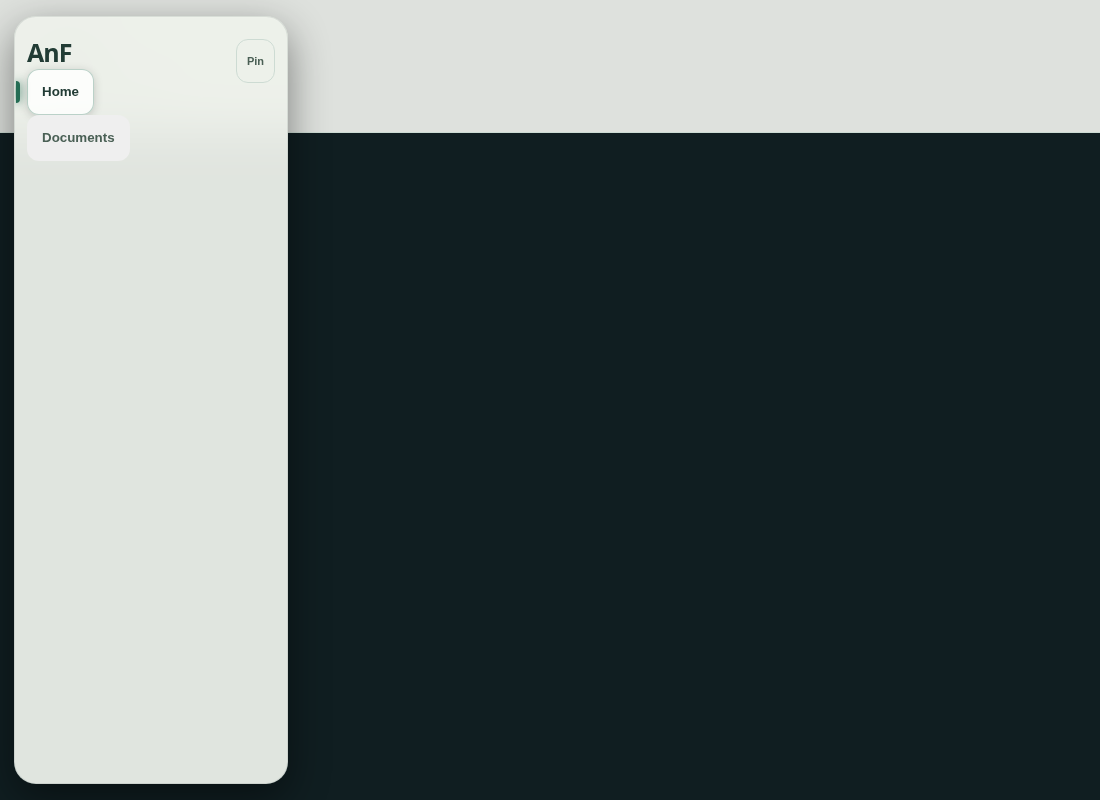
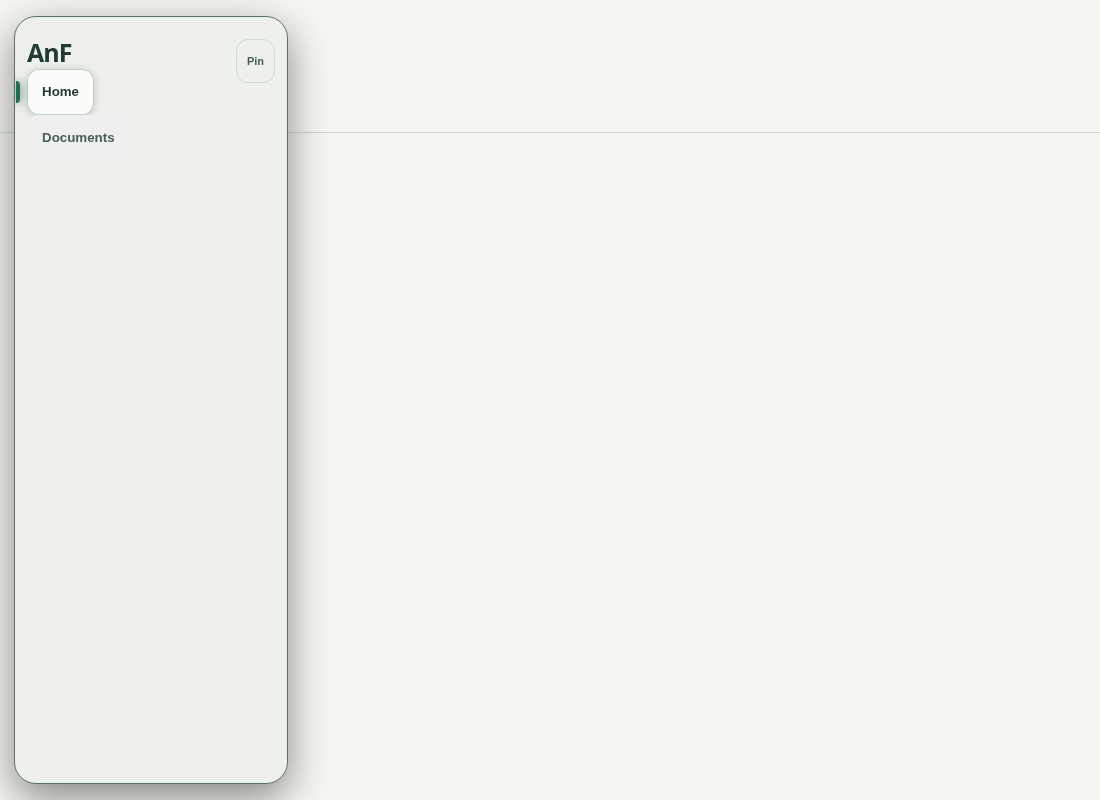
Raise reader and glass-light contrast above 4.5:1
Shell borders, focus, meter, and quote marks were about 3.1:1, the OCR
button kept the dark workspace surface on light and amber, and the light
glass rail blurred the dark page through a nearly invisible border.
Tokens now clear 4.5:1, the OCR control uses reader colors, and viewport
resizes no longer animate layout.

Claude-Session: https://cursor.com/agents/bc-d90c7748-2765-4055-a73d-bbf420a21b2e

diff --git a/windows/src/workspace/reader.css b/windows/src/workspace/reader.css
@@ -1,9 +1,11 @@
-.reader-overlay{--reader-bg:#18212b;--reader-ink:#e8eef3;--reader-line:#606d7a;--reader-focus:#4aa793;--reader-meter:#79e4b4;--reader-quote:#b4a144;position:fixed;inset:0;z-index:300;background:var(--reader-bg);color:var(--reader-ink);display:flex;flex-direction:column;padding:18px;overflow:hidden;font:15px/1.5 system-ui,sans-serif}.reader-overlay[hidden]{display:none!important}.reader-overlay[data-theme=black]{--reader-bg:#000;--reader-ink:#eee;--reader-line:#5c5c5c}.reader-overlay[data-theme=sepia]{--reader-bg:#f3e7d1;--reader-ink:#433827;--reader-line:#8d816a;--reader-focus:#409180;--reader-meter:#4c9071;--reader-quote:#948438}.reader-overlay[data-theme=light]{--reader-bg:#fafafa;--reader-ink:#222;--reader-line:#909090;--reader-focus:#469d8a;--reader-meter:#539d7c;--reader-quote:#a08f3d}.reader-header,.reader-controls,.reader-navigation{display:flex;gap:8px;align-items:center;flex-wrap:wrap;padding:4px 0;border:0}.reader-header h2{flex:1;font-size:20px;margin:0;overflow-wrap:anywhere}.reader-overlay button,.reader-overlay select,.reader-overlay textarea{background:var(--reader-bg);color:var(--reader-ink);border:1px solid var(--reader-line);border-radius:9px;padding:8px;font:inherit;min-height:40px;width:auto}.reader-overlay select{max-width:220px}.reader-overlay button:focus-visible,.reader-overlay select:focus-visible,.reader-page:focus-visible{outline:2px solid var(--reader-focus);outline-offset:2px}.reader-progress,.reader-notice,.reader-footnote{font-size:12px;margin:6px 0}.reader-body{display:grid;grid-template-columns:minmax(0,1fr) 280px;gap:24px;overflow:auto;min-height:0;flex:1;padding:8px 0}.reader-page{white-space:pre-wrap;overflow-wrap:anywhere;font:20px/1.8 Georgia,serif;margin:0 auto;max-height:none;width:100%;overflow:visible;color:var(--reader-ink)}.reader-aside{font:14px/1.5 system-ui,sans-serif;border-left:1px solid var(--reader-line);padding-left:16px}.reader-aside h3{margin-top:0}.reader-aside textarea{width:100%;min-height:85px}.reader-aside button{margin:5px 5px 5px 0;font-size:12px}.reader-notes article{border-top:1px solid var(--reader-line);padding:10px 0;overflow-wrap:anywhere}.reader-notes blockquote{margin:0;padding:0 8px;border-left:3px solid var(--reader-quote);font-style:italic}.reader-page mark[data-color=gold]{background:#f0ce69;color:#252018}.reader-page mark[data-color=green]{background:#91d6b0;color:#15291d}.reader-page mark[data-color=pink]{background:#eba7c1;color:#301321}@media(max-width:700px){.reader-overlay{padding:12px}.reader-body{display:block}.reader-aside{border:0;border-top:1px solid var(--reader-line);padding:20px 0;margin-top:25px}.reader-header h2{font-size:17px}.reader-controls select{font-size:12px;padding:5px;max-width:140px}.reader-navigation select{max-width:160px}.reader-page{padding:0 8px}.reader-footnote{font-size:10px}.reader-overlay button{font-size:12px}}
+.reader-overlay{--reader-bg:#18212b;--reader-ink:#e8eef3;--reader-line:#8494a2;--reader-focus:#4aa793;--reader-meter:#79e4b4;--reader-quote:#b4a144;--reader-control-bg:var(--reader-bg);--reader-control-ink:var(--reader-ink);--reader-control-line:var(--reader-line);--reader-control-mark:var(--reader-meter);color-scheme:dark;position:fixed;inset:0;z-index:300;background:var(--reader-bg);color:var(--reader-ink);display:flex;flex-direction:column;padding:18px;overflow:hidden;font:15px/1.5 system-ui,sans-serif}.reader-overlay[hidden]{display:none!important}.reader-overlay[data-theme=black]{--reader-bg:#000;--reader-ink:#eee;--reader-line:#767676}.reader-overlay[data-theme=sepia]{--reader-bg:#f3e7d1;--reader-ink:#433827;--reader-line:#746656;--reader-focus:#2f6d58;--reader-meter:#2a6848;--reader-quote:#6e5a28}.reader-overlay[data-theme=light]{--reader-bg:#fafafa;--reader-ink:#222;--reader-line:#6f6f6f;--reader-focus:#2f6f5c;--reader-meter:#2a7358;--reader-quote:#6f5b1c}.reader-overlay[data-theme=light],.reader-overlay[data-theme=sepia]{color-scheme:light}.reader-header,.reader-controls,.reader-navigation{display:flex;gap:8px;align-items:center;flex-wrap:wrap;padding:4px 0;border:0}.reader-header h2{flex:1;font-size:20px;margin:0;overflow-wrap:anywhere}.reader-overlay button,.reader-overlay select,.reader-overlay textarea{background:var(--reader-bg);color:var(--reader-ink);border:1px solid var(--reader-line);border-radius:9px;padding:8px;font:inherit;min-height:40px;width:auto}.reader-overlay select{max-width:220px}.reader-overlay button:focus-visible,.reader-overlay select:focus-visible,.reader-page:focus-visible{outline:2px solid var(--reader-focus);outline-offset:2px}.reader-progress,.reader-notice,.reader-footnote{font-size:12px;margin:6px 0}.reader-body{display:grid;grid-template-columns:minmax(0,1fr) 280px;gap:24px;overflow:auto;min-height:0;flex:1;padding:8px 0}.reader-page{white-space:pre-wrap;overflow-wrap:anywhere;font:20px/1.8 Georgia,serif;margin:0 auto;max-height:none;width:100%;overflow:visible;color:var(--reader-ink)}.reader-aside{font:14px/1.5 system-ui,sans-serif;border-left:1px solid var(--reader-line);padding-left:16px}.reader-aside h3{margin-top:0}.reader-aside textarea{width:100%;min-height:85px}.reader-aside button{margin:5px 5px 5px 0;font-size:12px}.reader-notes article{border-top:1px solid var(--reader-line);padding:10px 0;overflow-wrap:anywhere}.reader-notes blockquote{margin:0;padding:0 8px;border-left:3px solid var(--reader-quote);font-style:italic}.reader-page mark[data-color=gold]{background:#f0ce69;color:#252018}.reader-page mark[data-color=green]{background:#91d6b0;color:#15291d}.reader-page mark[data-color=pink]{background:#eba7c1;color:#301321}@media(max-width:700px){.reader-overlay{padding:12px}.reader-body{display:block}.reader-aside{border:0;border-top:1px solid var(--reader-line);padding:20px 0;margin-top:25px}.reader-header h2{font-size:17px}.reader-controls select{font-size:12px;padding:5px;max-width:140px}.reader-navigation select{max-width:160px}.reader-page{padding:0 8px}.reader-footnote{font-size:10px}.reader-overlay button{font-size:12px}.reader-header,.reader-controls,.reader-navigation{flex-wrap:nowrap;overflow-x:auto}}
 
 .reader-page{text-wrap:pretty;font-feature-settings:"kern" 1,"liga" 1}
-.reader-header h2{letter-spacing:-.03em}
+.reader-header h2{letter-spacing:-.03em;min-width:0;white-space:nowrap;overflow:hidden;text-overflow:ellipsis}
 
 .reader-meter{height:3px;border-radius:99px;background:var(--reader-line);overflow:hidden;margin:2px 0 8px}
+.reader-body{scrollbar-gutter:stable}
+.reader-header,.reader-controls,.reader-nav-slot{min-height:48px}
 .reader-meter>span{display:block;height:100%;width:0;background:var(--reader-meter);border-radius:99px}
 
 /* The section bar hides in place. Its slot keeps its height, so the reading column does not move. */
@@ -14,11 +16,12 @@
 
 @property --reader-bg{syntax:"<color>";inherits:true;initial-value:#18212b}
 @property --reader-ink{syntax:"<color>";inherits:true;initial-value:#e8eef3}
-@property --reader-line{syntax:"<color>";inherits:true;initial-value:#606d7a}
+@property --reader-line{syntax:"<color>";inherits:true;initial-value:#8494a2}
 @property --reader-focus{syntax:"<color>";inherits:true;initial-value:#4aa793}
 @property --reader-meter{syntax:"<color>";inherits:true;initial-value:#79e4b4}
 @property --reader-quote{syntax:"<color>";inherits:true;initial-value:#b4a144}
 .reader-overlay{--reader-theme-duration:.28s;--reader-theme-ease:cubic-bezier(.16,1,.3,1);transition:--reader-bg var(--reader-theme-duration) var(--reader-theme-ease),--reader-ink var(--reader-theme-duration) var(--reader-theme-ease),--reader-line var(--reader-theme-duration) var(--reader-theme-ease),--reader-focus var(--reader-theme-duration) var(--reader-theme-ease),--reader-meter var(--reader-theme-duration) var(--reader-theme-ease),--reader-quote var(--reader-theme-duration) var(--reader-theme-ease)}
 .reader-overlay :is(h1,h2,h3){color:var(--reader-ink)}
 .reader-overlay :is(input,textarea)::placeholder{color:color-mix(in srgb,var(--reader-ink) 75%,var(--reader-bg));opacity:1}
-.reader-overlay[data-theme=amber]{--reader-bg:#100a03;--reader-ink:#d5a875;--reader-line:#725b41}
+.reader-overlay :is(button,select,textarea){transition:background-color var(--reader-theme-duration) var(--reader-theme-ease),color var(--reader-theme-duration) var(--reader-theme-ease),border-color var(--reader-theme-duration) var(--reader-theme-ease),outline-color var(--reader-theme-duration) var(--reader-theme-ease)}
+.reader-overlay[data-theme=amber]{--reader-bg:#100a03;--reader-ink:#d5a875;--reader-line:#9a7854}

diff --git a/windows/tests/reader-theme.test.ts b/windows/tests/reader-theme.test.ts
@@ -7,6 +7,7 @@ const studioCss = readFileSync(new URL('../src/workspace/studio.css', import.met
 const readerTs = readFileSync(new URL('../src/workspace/reader.ts', import.meta.url), 'utf8');
 const railCss = readFileSync(new URL('../src/workspace/nav-rail.css', import.meta.url), 'utf8');
 const designCss = readFileSync(new URL('../src/workspace/anf-design.css', import.meta.url), 'utf8');
+const ocrTs = readFileSync(new URL('../src/workspace/ocr-client.ts', import.meta.url), 'utf8');
 
 const THEMES = ['dark', 'black', 'sepia', 'light', 'amber'] as const;
 const LAYOUT_PROPS = ['width', 'height', 'padding', 'margin', 'font-size', 'line-height', 'border-width', 'top', 'left', 'gap', 'grid-template'];
@@ -48,19 +49,19 @@ function themeProp(name: string, theme: (typeof THEMES)[number]) {
   return value!;
 }
 
-test('reader theme ink stays at least 4.5:1 and shell borders at least 3:1', () => {
+test('reader theme ink and shell chrome stay at least 4.5:1', () => {
   for (const theme of THEMES) {
     const bg = themeProp('--reader-bg', theme);
     const ink = themeProp('--reader-ink', theme);
     const line = themeProp('--reader-line', theme);
     assert.ok(contrast(bg, ink) >= 4.5, `${theme} ink ${ink} on ${bg} is ${contrast(bg, ink).toFixed(2)}`);
-    assert.ok(contrast(bg, line) >= 3, `${theme} border ${line} on ${bg} is ${contrast(bg, line).toFixed(2)}`);
+    assert.ok(contrast(bg, line) >= 4.5, `${theme} border ${line} on ${bg} is ${contrast(bg, line).toFixed(2)}`);
     const focus = themeProp('--reader-focus', theme);
     const meter = themeProp('--reader-meter', theme);
     const quote = themeProp('--reader-quote', theme);
-    assert.ok(contrast(bg, focus) >= 3, `${theme} focus ${focus} on ${bg} is ${contrast(bg, focus).toFixed(2)}`);
-    assert.ok(contrast(bg, meter) >= 3, `${theme} meter ${meter} on ${bg} is ${contrast(bg, meter).toFixed(2)}`);
-    assert.ok(contrast(bg, quote) >= 3, `${theme} quote ${quote} on ${bg} is ${contrast(bg, quote).toFixed(2)}`);
+    assert.ok(contrast(bg, focus) >= 4.5, `${theme} focus ${focus} on ${bg} is ${contrast(bg, focus).toFixed(2)}`);
+    assert.ok(contrast(bg, meter) >= 4.5, `${theme} meter ${meter} on ${bg} is ${contrast(bg, meter).toFixed(2)}`);
+    assert.ok(contrast(bg, quote) >= 4.5, `${theme} quote ${quote} on ${bg} is ${contrast(bg, quote).toFixed(2)}`);
   }
 });
 
@@ -105,4 +106,50 @@ test('glass shells ease border and overlay together without layout properties', 
   assert.match(transition!, /background-color/);
   assert.match(transition!, /border-color/);
   for (const prop of LAYOUT_PROPS) assert.equal(transition!.includes(prop), false, prop);
+});
+
+test('reader controls ease color only, and a narrow viewport does not restack the chrome', () => {
+  const controls = readerCss.match(/\.reader-overlay :is\(button,select,textarea\)\{([^}]*)\}/);
+  assert.ok(controls, 'reader control transition');
+  const transition = controls![1].match(/transition\s*:([^;]+)/)?.[1] ?? '';
+  assert.match(transition, /background-color/);
+  assert.match(transition, /border-color/);
+  assert.match(transition, /color/);
+  for (const prop of LAYOUT_PROPS) assert.equal(transition.includes(prop), false, prop);
+  assert.match(readerCss, /@media\(max-width:700px\)\{[\s\S]*flex-wrap\s*:\s*nowrap/);
+  assert.match(readerCss, /scrollbar-gutter\s*:\s*stable/);
+  assert.match(readerCss, /\.reader-header h2\{[^}]*text-overflow\s*:\s*ellipsis/);
+  assert.match(readerCss, /\.reader-overlay\{[^}]*color-scheme\s*:\s*dark/);
+  assert.match(readerCss, /\.reader-overlay\[data-theme=light\],\.reader-overlay\[data-theme=sepia\]\{[^}]*color-scheme\s*:\s*light/);
+});
+
+test('the OCR control inside the reader uses reader tokens, not the workspace surface', () => {
+  assert.match(readerCss, /--reader-control-bg\s*:\s*var\(--reader-bg\)/);
+  assert.match(readerCss, /--reader-control-ink\s*:\s*var\(--reader-ink\)/);
+  assert.match(readerCss, /--reader-control-line\s*:\s*var\(--reader-line\)/);
+  assert.match(readerCss, /--reader-control-mark\s*:\s*var\(--reader-meter\)/);
+  assert.match(ocrTs, /var\(--reader-control-bg,\s*var\(--surface/);
+  assert.match(ocrTs, /var\(--reader-control-ink,\s*var\(--ink/);
+  assert.match(ocrTs, /var\(--reader-control-line,\s*var\(--line/);
+  assert.doesNotMatch(ocrTs, /btn\.style\.background = 'var\(--surface/);
+  assert.match(ocrTs, /var\(--reader-control-mark,\s*var\(--accent/);
+});
+
+test('light glass drops the blur halo and keeps a readable border on an opaque rail', () => {
+  const side = propIn(designCss, '#workspace-root[data-theme=light]', '--side');
+  assert.ok(side, 'light --side');
+  for (const selector of ['#workspace-root[data-theme=light]', '#workspace-root[data-theme=system]']) {
+    const rule = railCss.match(new RegExp(`${selector.replace(/[.*+?^${}()|[\]\\]/g, '\\$&')} \\.glass-rail:not\\(\\[data-rail=collapsed\\]\\)\\{([^}]*)\\}`));
+    assert.ok(rule, selector);
+    assert.match(rule![1], /background\s*:\s*var\(--side\)/);
+    assert.match(rule![1], /backdrop-filter\s*:\s*none/);
+    const line = rule![1].match(/--glass-line\s*:\s*(#[0-9a-fA-F]{6})/)?.[1];
+    assert.ok(line, `${selector} sets --glass-line`);
+    assert.ok(contrast(side!, line!) >= 4.5, `${selector} glass border ${line} on ${side} is ${contrast(side!, line!).toFixed(2)}`);
+  }
+  assert.match(designCss, /#workspace-root\{[^}]*background\s*:\s*var\(--bg\)/);
+  assert.match(designCss, /#workspace-root\{[^}]*min-height\s*:\s*100%/);
+  assert.match(designCss, /#workspace-root\[data-theme=light\] \.workspace-header\{[^}]*backdrop-filter\s*:\s*none/);
+  assert.match(designCss, /#workspace-root\[data-theme=system\] \.workspace-header\{[^}]*backdrop-filter\s*:\s*none/);
+  assert.match(designCss, /--shell-blur\s*:/);
 });

diff --git a/windows/src/workspace/nav-rail.css b/windows/src/workspace/nav-rail.css
@@ -1,8 +1,9 @@
 /* Glass navigation rail (nav-rail.ts). Windows workspace only: Android keeps its own bottom navigation. */
 .glass-rail{
   --rail-open:248px;--rail-closed:68px;--rail-pad:12px;--rail-ease:cubic-bezier(.16,1,.3,1);
+  --shell-blur:24px;
   background:color-mix(in srgb,var(--side) 78%,transparent);
-  backdrop-filter:blur(24px) saturate(160%);-webkit-backdrop-filter:blur(24px) saturate(160%);
+  backdrop-filter:blur(var(--shell-blur)) saturate(160%);-webkit-backdrop-filter:blur(var(--shell-blur)) saturate(160%);
   border:1px solid color-mix(in srgb,var(--ink) 10%,transparent);
   box-shadow:0 14px 40px rgba(0,0,0,0.45), inset 0 1px 0 rgba(255,255,255,0.08);
 }
@@ -39,9 +40,9 @@
   body.has-glass-rail .music-player:not(.music-full-player){left:max(50%,calc(var(--rail-open,248px) + 28px + min(calc(100vw - 320px),1140px) / 2))!important}
 }
 
-/* Light theme: over the dark Music Hub the 78% glass left the open rail's muted labels at ~3.3:1. Open, it is nearly opaque; the collapsed icon rail keeps the glass. */
-#workspace-root[data-theme=light] .glass-rail:not([data-rail=collapsed]){background:color-mix(in srgb,var(--side) 94%,transparent);border-color:color-mix(in srgb,var(--ink) 10%,transparent)}
-@media(prefers-color-scheme:light){#workspace-root[data-theme=system] .glass-rail:not([data-rail=collapsed]){background:color-mix(in srgb,var(--side) 94%,transparent);border-color:color-mix(in srgb,var(--ink) 10%,transparent)}}
+/* Light theme: a translucent rail blurred the dark page into its edge and left the border near 1.2:1. Open, it is opaque with no blur; the collapsed icon rail keeps the glass. */
+#workspace-root[data-theme=light] .glass-rail:not([data-rail=collapsed]){--shell-blur:0px;--glass-line:#5b7067;background:var(--side);border-color:var(--glass-line);backdrop-filter:none;-webkit-backdrop-filter:none}
+@media(prefers-color-scheme:light){#workspace-root[data-theme=system] .glass-rail:not([data-rail=collapsed]){--shell-blur:0px;--glass-line:#5b7067;background:var(--side);border-color:var(--glass-line);backdrop-filter:none;-webkit-backdrop-filter:none}}
 
 @media(max-width:767px){
   /* Narrow windows: every section as an icon in a floating bottom bar, within thumb reach. */

diff --git a/windows/src/workspace/anf-design.css b/windows/src/workspace/anf-design.css
@@ -7,6 +7,7 @@
   color:var(--ink);color-scheme:dark;
   font-family:'Segoe UI Variable','Segoe UI',system-ui,sans-serif;
 }
+#workspace-root{background:var(--bg);min-height:100%}
 html[data-theme=light],#workspace-root[data-theme=light]{
   --bg:#f5f6f2;--side:#eef1eb;--surface:#ffffff;--panel:var(--surface);
   --hover:#e5efe8;--line:#cddbd3;--ink:#223c35;--muted:#4a6055;
@@ -45,7 +46,9 @@ p{line-height:1.65}pre{overflow-wrap:anywhere}
 .workspace-navigation button[aria-current=page]{background:var(--surface);border-color:var(--line);color:var(--accent);box-shadow:var(--shadow);font-weight:700}
 .history-sidebar>button{border-style:solid;border-radius:12px}
 .history-heading{margin-top:28px}.history-item{border-radius:12px;padding:12px}
-.workspace-header{padding:20px 36px;min-height:92px;background:color-mix(in srgb,var(--bg) 90%,transparent);backdrop-filter:blur(16px);-webkit-backdrop-filter:blur(16px);border-bottom:1px solid var(--line);position:sticky;top:0;z-index:90}
+.workspace-header{padding:20px 36px;min-height:92px;--shell-blur:16px;background:color-mix(in srgb,var(--bg) 90%,transparent);backdrop-filter:blur(var(--shell-blur));-webkit-backdrop-filter:blur(var(--shell-blur));border-bottom:1px solid var(--line);position:sticky;top:0;z-index:90}
+#workspace-root[data-theme=light] .workspace-header{--shell-blur:0px;background:var(--bg);backdrop-filter:none;-webkit-backdrop-filter:none}
+@media(prefers-color-scheme:light){#workspace-root[data-theme=system] .workspace-header{--shell-blur:0px;background:var(--bg);backdrop-filter:none;-webkit-backdrop-filter:none}}
 .workspace-header h1{font-size:24px;margin-bottom:4px}.workspace-header .hint{margin:0}
 .project-title input{border:1px solid var(--line);background:var(--surface);padding:9px 12px;font-size:13px;border-radius:10px}
 .panel-host{padding:36px;scrollbar-width:thin}.workspace-panel{max-width:1080px}

diff --git a/windows/src/workspace/ocr-client.ts b/windows/src/workspace/ocr-client.ts
@@ -282,13 +282,13 @@ export function createOcrStatusIndicator(options?: OcrStatusIndicatorOptions): O
       badge.style.fontSize = '11px';
       badge.style.fontWeight = '600';
       badge.style.letterSpacing = '0.02em';
-      badge.style.background = 'rgba(121, 228, 180, 0.14)';
-      badge.style.color = 'var(--accent, #79e4b4)';
-      badge.style.border = '1px solid rgba(121, 228, 180, 0.35)';
+      badge.style.background = 'color-mix(in srgb, var(--reader-control-mark, var(--accent, #79e4b4)) 18%, transparent)';
+      badge.style.color = 'var(--reader-control-ink, var(--ink, #edf4ef))';
+      badge.style.border = '1px solid var(--reader-control-mark, var(--accent, #79e4b4))';
 
       const dot = document.createElement('span');
       dot.textContent = '●';
-      dot.style.color = 'var(--accent, #79e4b4)';
+      dot.style.color = 'var(--reader-control-mark, var(--accent, #79e4b4))';
       dot.style.fontSize = '9px';
 
       const label = document.createElement('span');
@@ -332,9 +332,9 @@ export function createOcrStatusIndicator(options?: OcrStatusIndicatorOptions): O
       btn.style.borderRadius = '6px';
       btn.style.fontSize = '11px';
       btn.style.fontWeight = '500';
-      btn.style.background = 'var(--surface, #1e1e1e)';
-      btn.style.color = 'var(--ink, #e0e0e0)';
-      btn.style.border = '1px solid var(--line, #3a3a3a)';
+      btn.style.background = 'var(--reader-control-bg, var(--surface, #1e1e1e))';
+      btn.style.color = 'var(--reader-control-ink, var(--ink, #e0e0e0))';
+      btn.style.border = '1px solid var(--reader-control-line, var(--line, #3a3a3a))';
       btn.style.cursor = 'pointer';
 
       btn.addEventListener('click', async () => {

diff --git a/HANDOFF.md b/HANDOFF.md
@@ -230,3 +230,9 @@ Nothing merged. Labels per runbook section 7. Baseline on origin/main `b7cb275` 
 - Reader themes (soft dark, black, sepia, light, night amber) ease `--reader-bg`, `--reader-ink`, `--reader-line`, and the focus, meter, and quote tokens. A theme change only sets `data-theme`; it does not restyle the type or rebuild the page. Shell borders are at least 3:1 and text, headings, and placeholders at least 4.5:1 on every theme. Amber uses the same tokens as the other themes. The glass rail's light theme sets its border with its overlay, and the header eases background and border only. Existing rail size variables are unchanged.
 - Labels: tested on Linux (`npx tsc --noEmit` clean, `npm test` 264 pass / 0 fail, including `windows/tests/reader-theme.test.ts`). Browser fixture `node scripts/app-qa/reader-theme.mjs` (headless Chrome): five themes, scroll stayed at 140px, page text was not rebuilt, column/toolbar/rail/header boxes did not move, no console warnings. Evidence in `.cursor/verification-artifacts/reader-theme.md`. NOT installed. `scripts/simplify-code.sh` still cannot run (`ponytail-cli` npm 404, and the script shebang has a UTF-8 BOM).
 - Commit `b12e96a` on `cursor/reader-theme-transitions-674a`. PR: https://github.com/mwalikokelvo/AnF/pull/84. Merged with `origin/main` (`8e1a85b`). The OPDS and KOReader files do not touch the reader theme styles.
+
+## 2026-11-03 Cursor: reader contrast across dark, light, amber, and glass-light
+
+- Reader shell borders, focus rings, meters, and quote marks now clear 4.5:1 on dark, black, sepia, light, and night amber (they were about 3.1:1). Start OCR Server uses the reader background, ink, and border instead of the dark workspace surface. Light and sepia readers set `color-scheme: light`. Below 700px the reader chrome stays on one scrolling row, the title ellipsizes, and controls ease only color, so a viewport change does not animate the page. The open light glass rail is opaque (`--shell-blur: 0`, `backdrop-filter: none`) with a `#5b7067` border at 4.65:1, and `#workspace-root` paints `var(--bg)` so the light canvas is `#f5f6f2` rather than the dark page showing through.
+- Labels: tested on Linux (`npm run typecheck` clean, `npm test` 288 pass / 0 fail). Browser fixture `node scripts/app-qa/reader-theme.mjs` (headless Chrome): five themes, OCR control matches the reader fill, resize 1100px to 640px and back leaves the page settled, light rail blur is none. Evidence in `.cursor/verification-artifacts/reader-theme.md`. NOT installed. `scripts/simplify-code.sh` still cannot run (`ponytail-cli` npm 404, and the script shebang has a UTF-8 BOM).
+- Branch `cursor/reader-theme-contrast-1b2e`.

diff --git a/.cursor/verification-artifacts/reader-theme.md b/.cursor/verification-artifacts/reader-theme.md
@@ -1,10 +1,25 @@
-# Reader theme transitions
+# Reader theme contrast
 
 Browser fixture (headless Chrome), not an installed app.
 
+## Before
+
+Sampled from the previous fixture shots:
+
+| Surface | Measured |
+|---|---|
+| Dark, light, and amber borders | about 3.07:1 (`#606d7a`, `#909090`, `#725b41`) |
+| Light focus, meter, and quote | about 3.10:1 |
+| Start OCR Server | workspace surface `#182a2d` on every reader theme |
+| Light glass border | about 1.2:1, with a 24px blur halo over the dark page |
+| Light canvas behind the rail | `#101e21` showing through |
+
+## After
+
 - Themes dark, black, sepia, light, amber change background and ink.
-- Reading column, toolbar, glass rail, and header keep their boxes.
+- Reading column, toolbar, glass rail, and header keep their boxes. Resizing 1100px to 640px and back does not leave the page mid-transition.
 - Scroll stays at 140px and the document text is not rebuilt.
-- Title, aside heading, and page text stay at least 4.5:1. Control borders stay at least 3:1. Placeholders stay at least 4.5:1.
+- Title, aside heading, page text, placeholders, and the OCR control stay at least 4.5:1. Shell borders, focus, meter, and quote stay at least 4.5:1.
+- The open light rail is opaque (`backdrop-filter: none`). Its border is rgb(91, 112, 103) on rgb(238, 241, 235) (4.65:1). The canvas is rgb(245, 246, 242), not the dark page color.
 - Console warnings: none.
 - Transition: `--reader-bg, --reader-ink, --reader-line, --reader-focus, --reader-meter, --reader-quote`.
